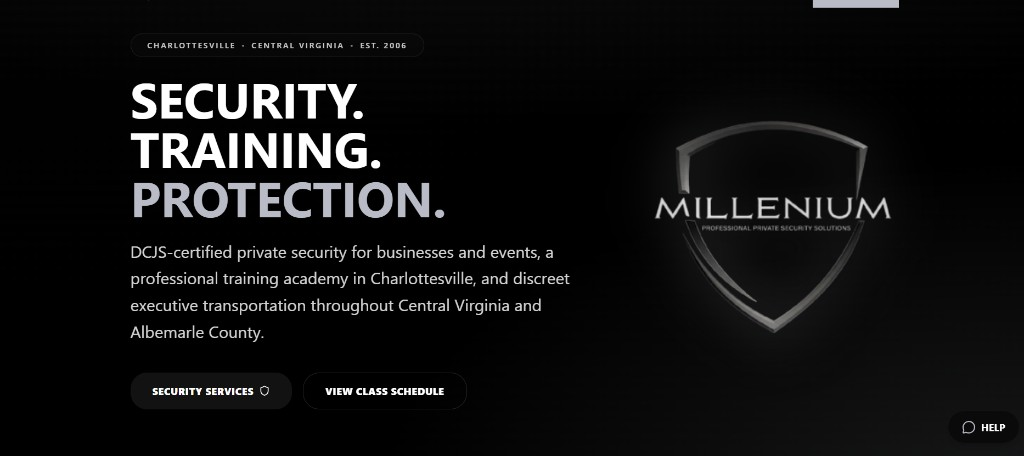
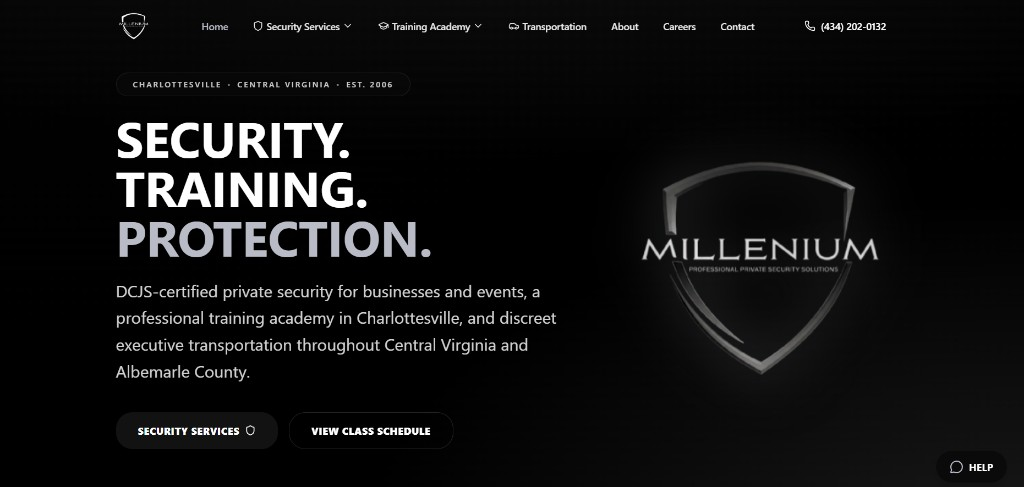
Update mock-site preview screenshot and image alt text
Made-with: Cursor

diff --git a/src/app/page.tsx b/src/app/page.tsx
@@ -366,7 +366,7 @@ export default function Home() {
                 <div className="relative aspect-[16/10] w-full">
                   <Image
                     src="/mock-site-preview.png"
-                    alt="Screenshot of the remodeled Millenium security mock website hero"
+                    alt="Screenshot of the remodeled Millenium mock site: navigation, hero headline, and shield logo"
                     fill
                     className="object-cover object-top transition-transform duration-500 group-hover:scale-[1.02]"
                     sizes="(max-width: 768px) 100vw, min(1280px, 100vw)"
